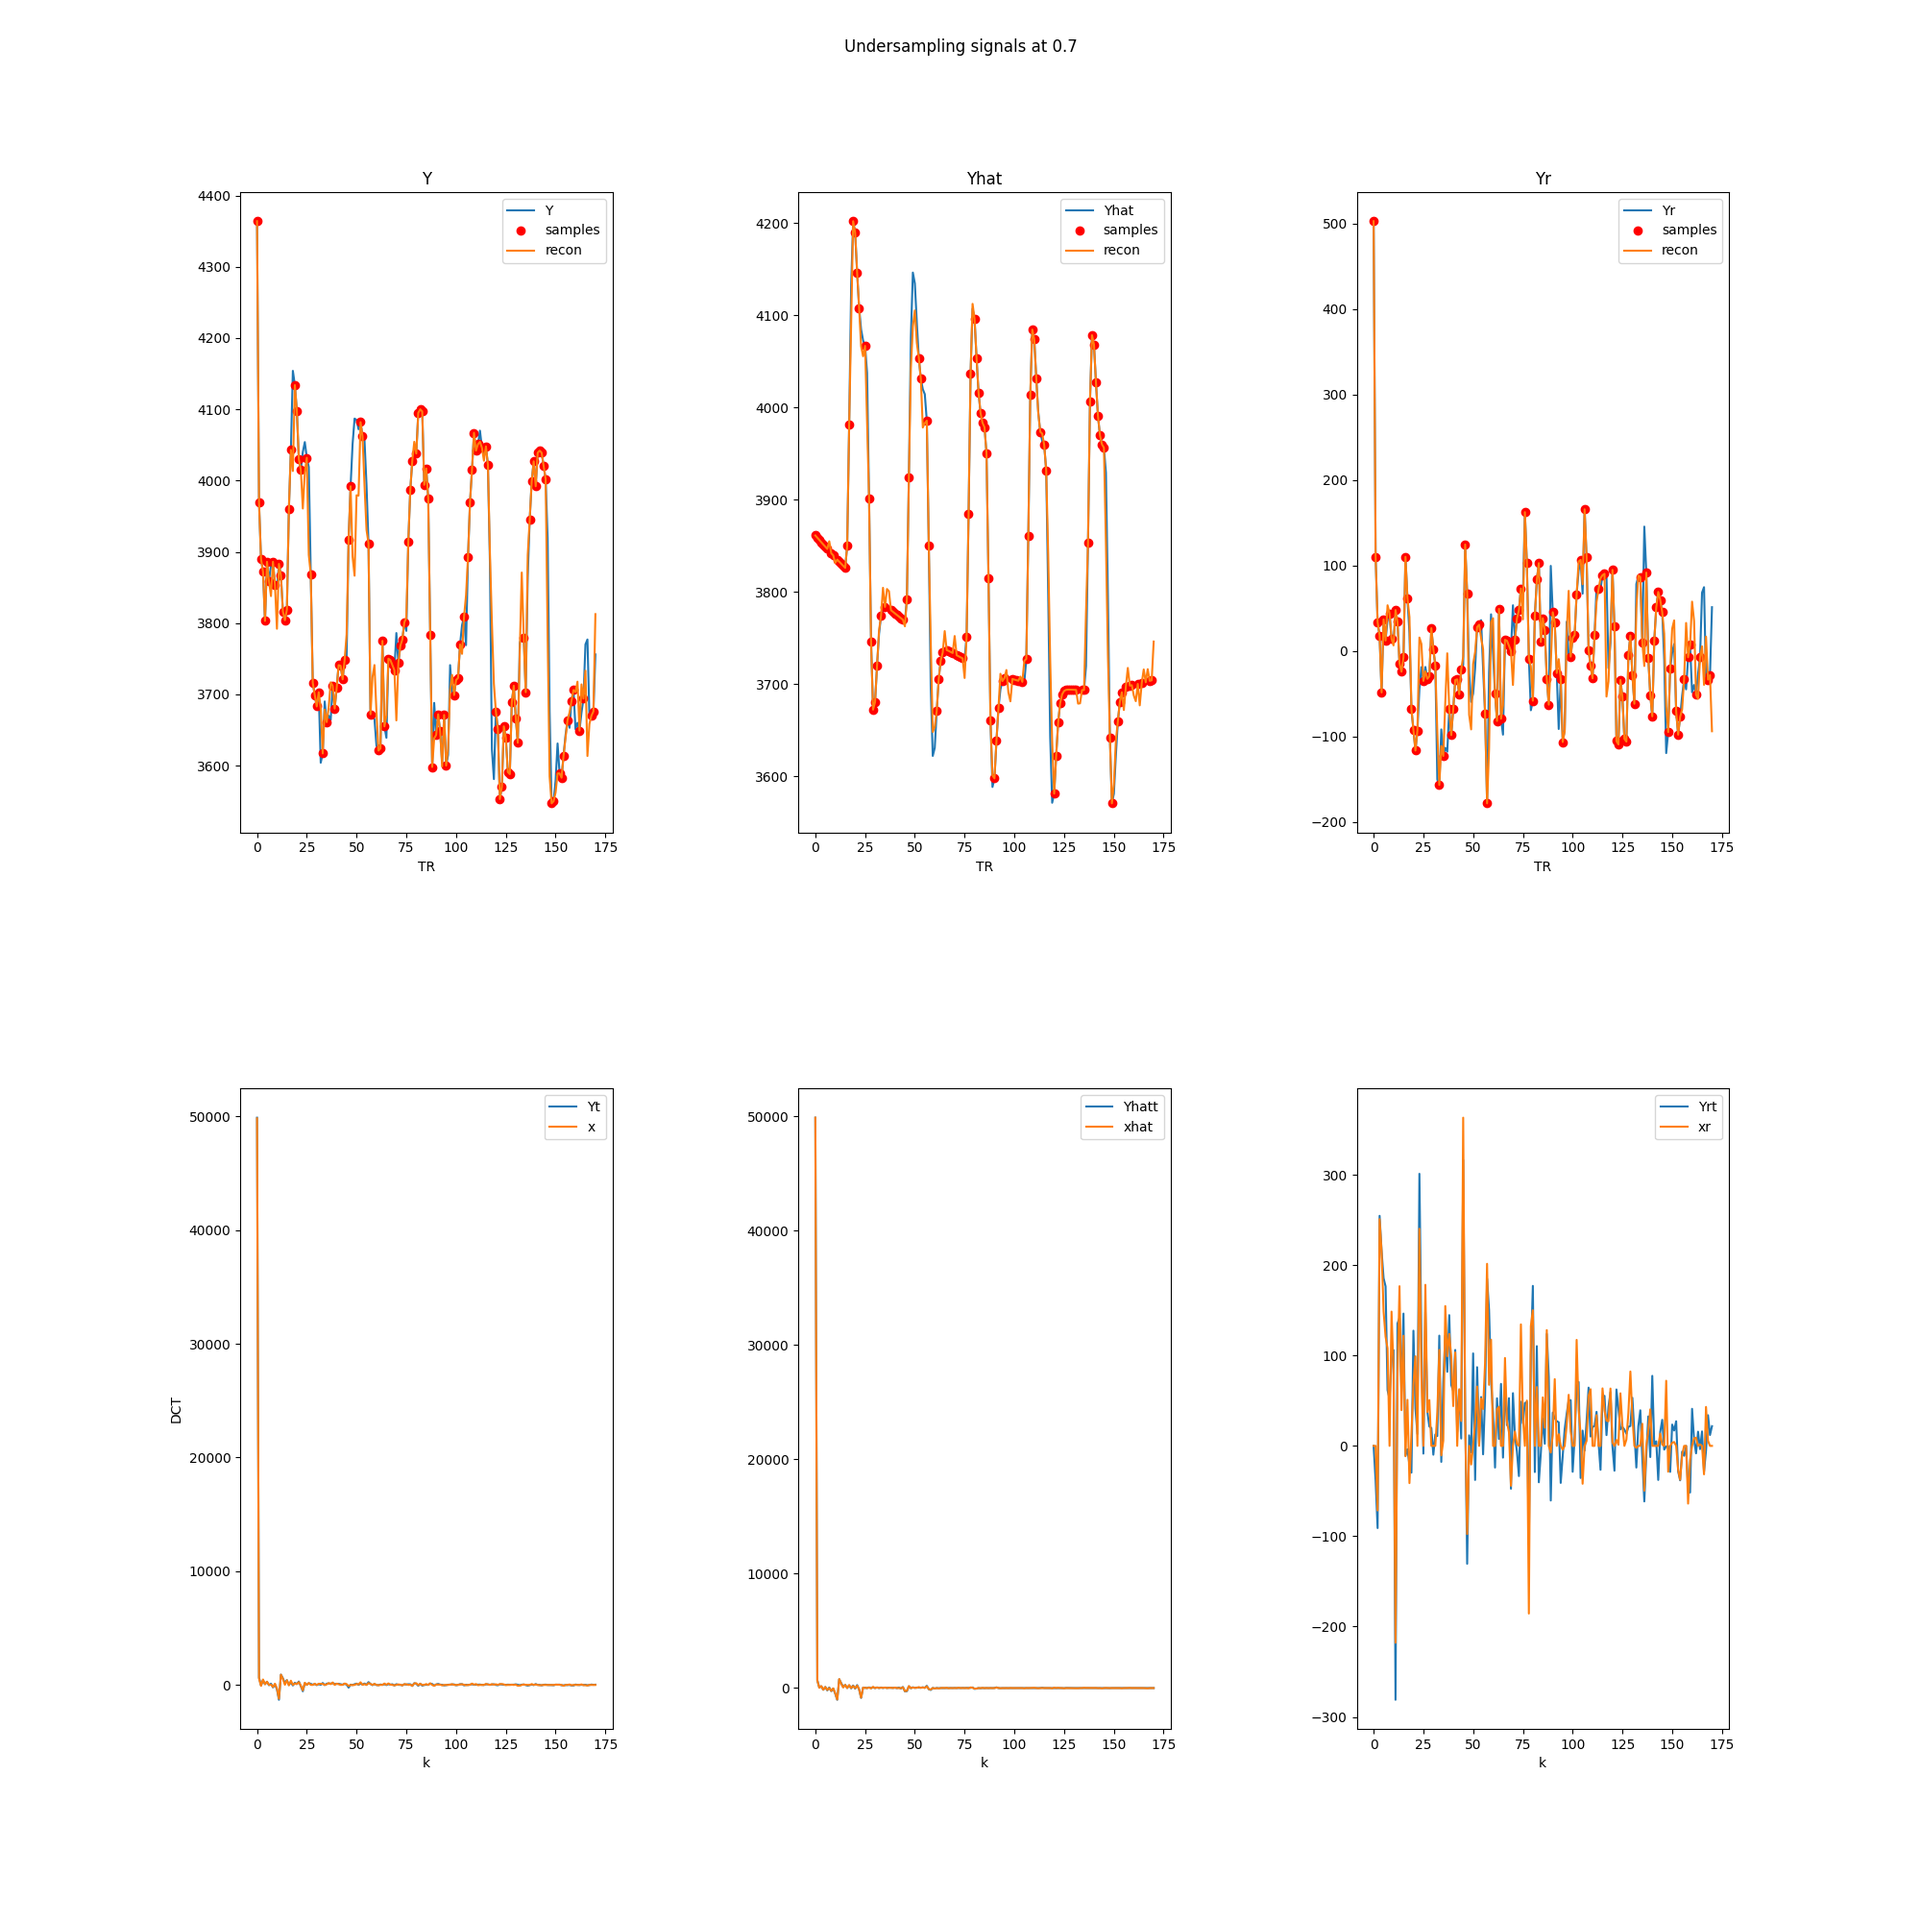
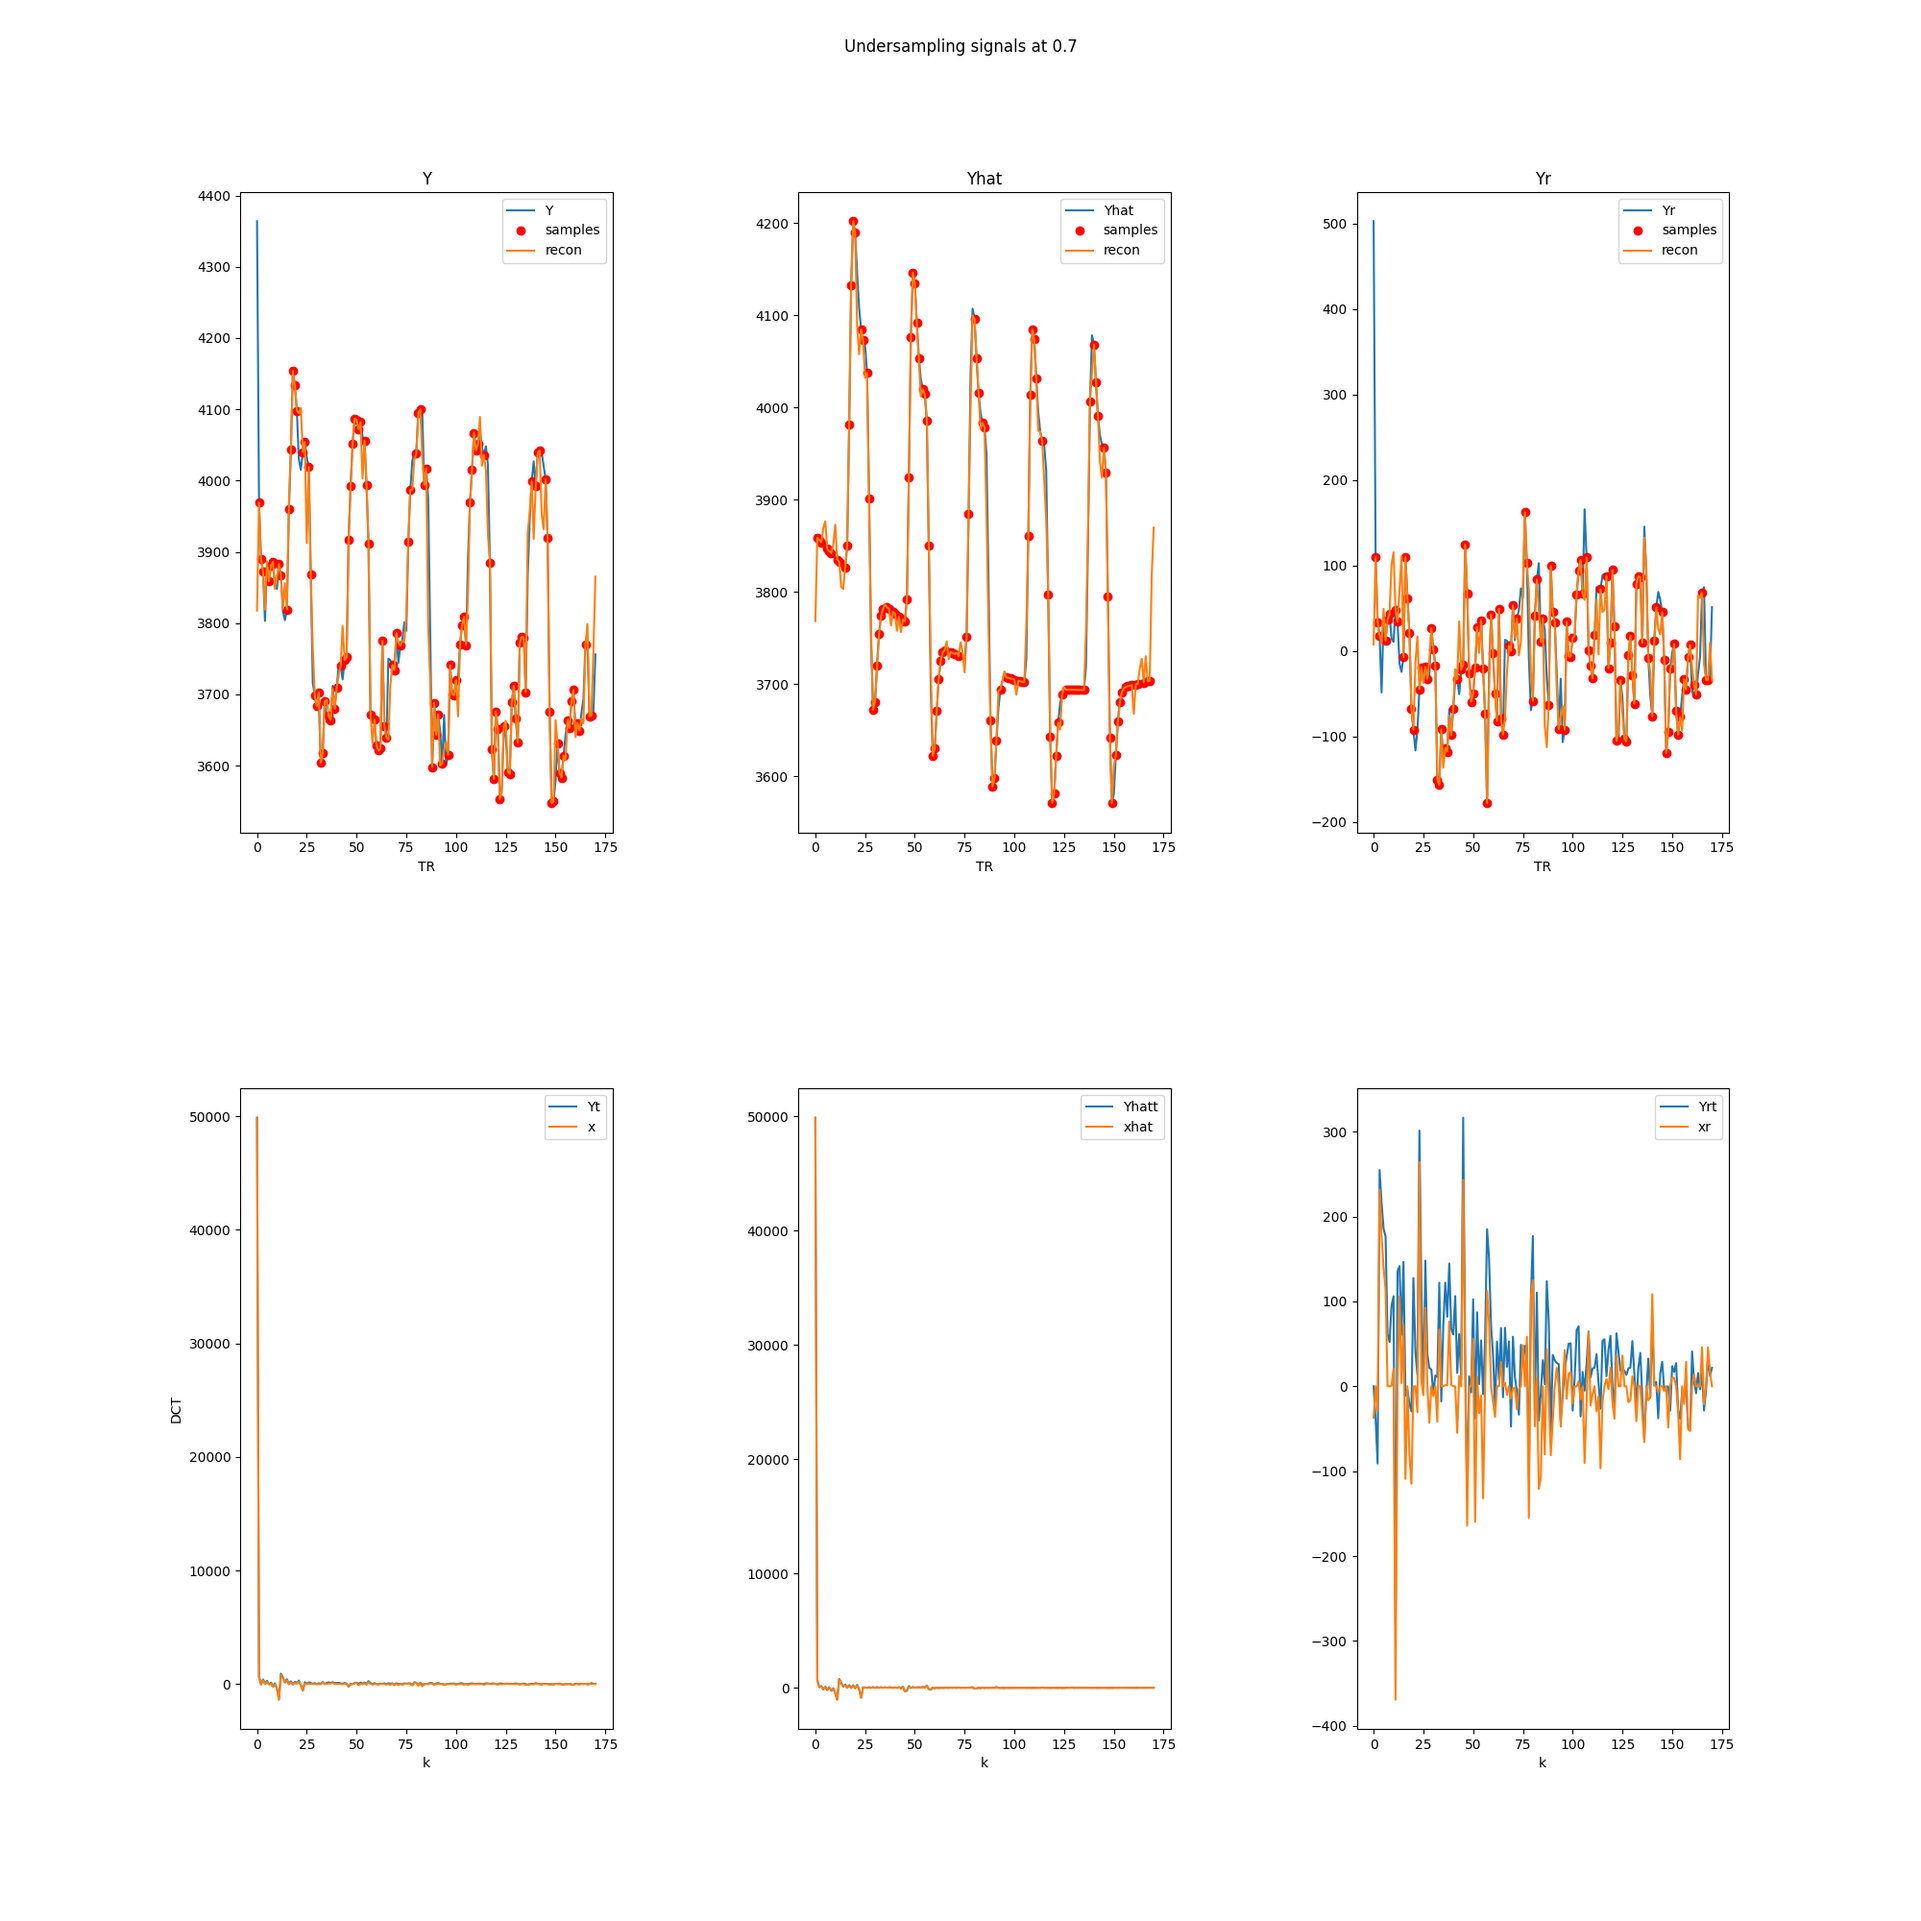
add nyquist resp rate

diff --git a/optCSfMRI-TS.py b/optCSfMRI-TS.py
@@ -18,7 +18,7 @@ from lbfgs import fmin_lbfgs as owlqn  # pip install pylbfgs or (deprecated) htt
 import time
 from datetime import timedelta
 import nibabel as nb
-from util import double_gamma_HRF, create_task_impulse, CS_L1_opt
+from util import double_gamma_HRF, create_task_impulse, CS_L1_opt, rmse
 
 def CS_Ex4(ffmri, ftask, slice=10, verbose=False):
     """
@@ -64,6 +64,7 @@ def CS_Ex4(ffmri, ftask, slice=10, verbose=False):
     response = np.convolve(impulse, hrf, mode='full')  # mode = 'full', 'valid', 'same'
     response = response[:nframes]
 
+    #TODO compute nyquist resp rate --> use FFT instead of DCT for freqs??
     respt = spfft.dct(response, norm='ortho')
     impt = spfft.dct(impulse, norm='ortho')
 
@@ -190,9 +191,9 @@ def CS_Ex4(ffmri, ftask, slice=10, verbose=False):
         sighat = spfft.idct(xhat, norm='ortho', axis=0)
         sigr = spfft.idct(xr, norm='ortho', axis=0)
         
-        y_err = np.mean(np.square(y - sig))
-        yhat_err = np.mean(np.square(yhat - sighat))
-        yr_err = np.mean(np.square(yr - sigr))
+        y_err = rmse(y, sig)
+        yhat_err = rmse(yhat, sighat)
+        yr_err = rmse(yr, sigr)
         errors += [(y_err, yhat_err, yr_err)]
 
         # plot sensing results
@@ -246,16 +247,16 @@ def CS_Ex4(ffmri, ftask, slice=10, verbose=False):
     # error curve
     errors = np.asarray(errors)
     nyHRFPercent = TR*nyHRF  # length*rate / nframes = nframes*TR*nyquist / nframes = TR*nyquist
-    nyRespPercent = TR*nyResp
+    # nyRespPercent = TR*nyResp
 
     plt.figure()
     plt.plot(levels, errors[:,0], label='Y')
     plt.plot(levels, errors[:, 1], label='Yhat')
     plt.plot(levels, errors[:, 2], label='Yr')
     plt.axvline(x=nyHRFPercent, label='% HRF Nyquist', c='c', ls='--')
-    plt.axvline(x=nyRespPercent, label='% Resp Nyquist', c='m', ls='--')
+    # plt.axvline(x=nyRespPercent, label='% Resp Nyquist', c='m', ls='--')
     plt.xlabel('Percent sampled')
-    plt.ylabel('MSE')
+    plt.ylabel('RMSE')
     plt.legend()
     plt.savefig('results/error.png')
 

diff --git a/util/__init__.py b/util/__init__.py
@@ -7,6 +7,32 @@ Utilities for compressed sensing fMRI time series.
 import numpy as np
 import cvxpy as cvx
 
+def mse(true, pred):
+    """
+    Compute mean squared error.
+
+    Params:
+        true = true signal
+        pred = predicted signal
+
+    Returns:
+        mse scalar
+    """
+    return np.mean(np.square(true - pred))
+
+def rmse(true, pred):
+    """
+    Compute root mean squared error.
+
+    Params:
+        true = true signal
+        pred = predicted signal
+
+    Returns:
+        rmse scalar
+    """
+    return np.sqrt(mse(true, pred))
+
 def double_gamma_HRF(TR, tmax=30):
     """
     Construct a hemodynamic response function (HRF) based on a double-gamma fit in Glover et al. 1999, "Deconvolution
